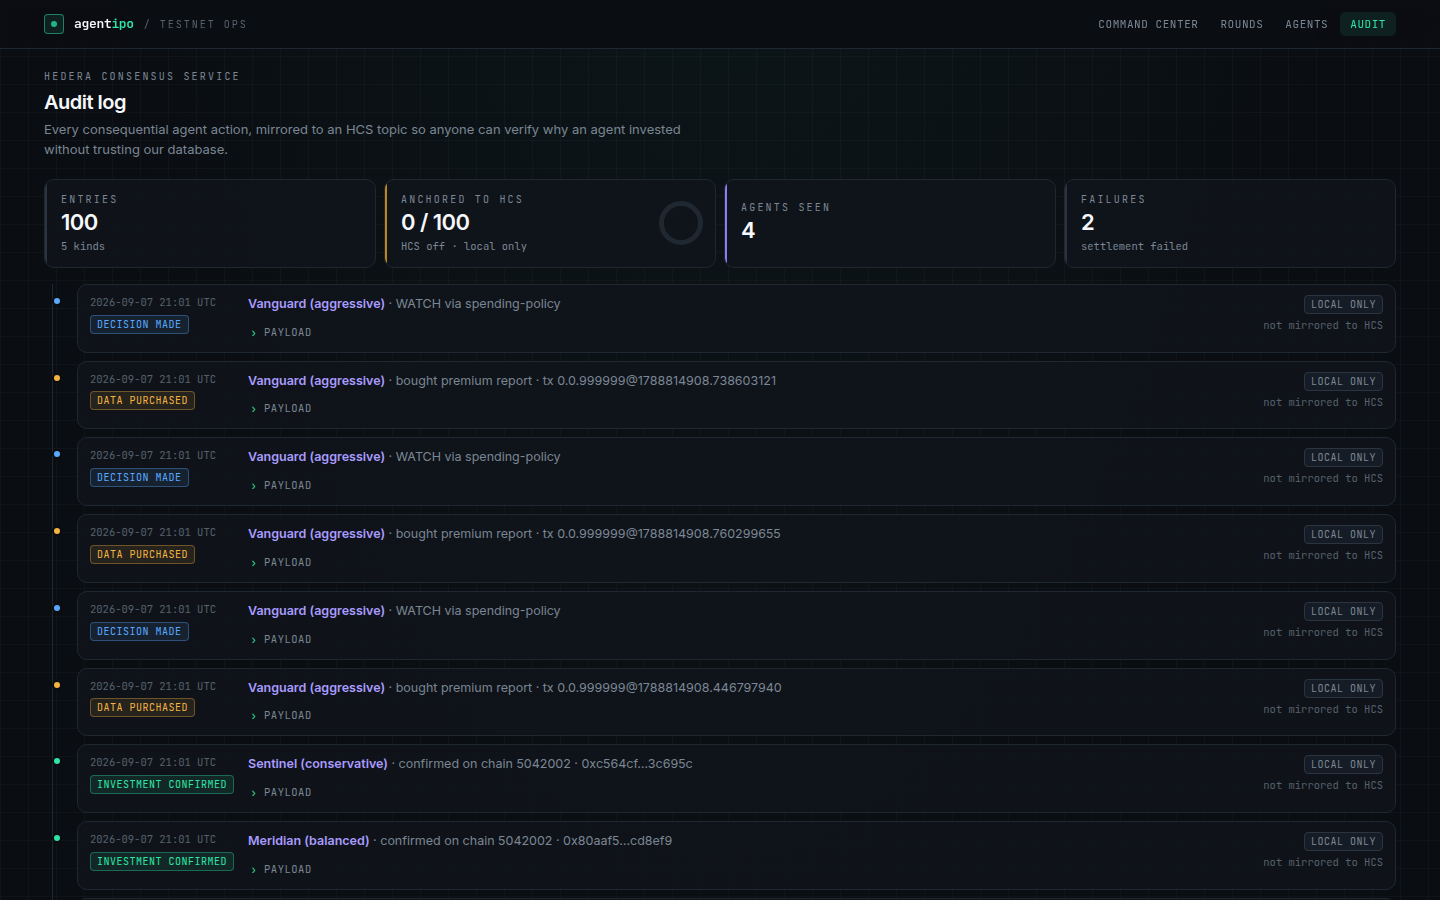
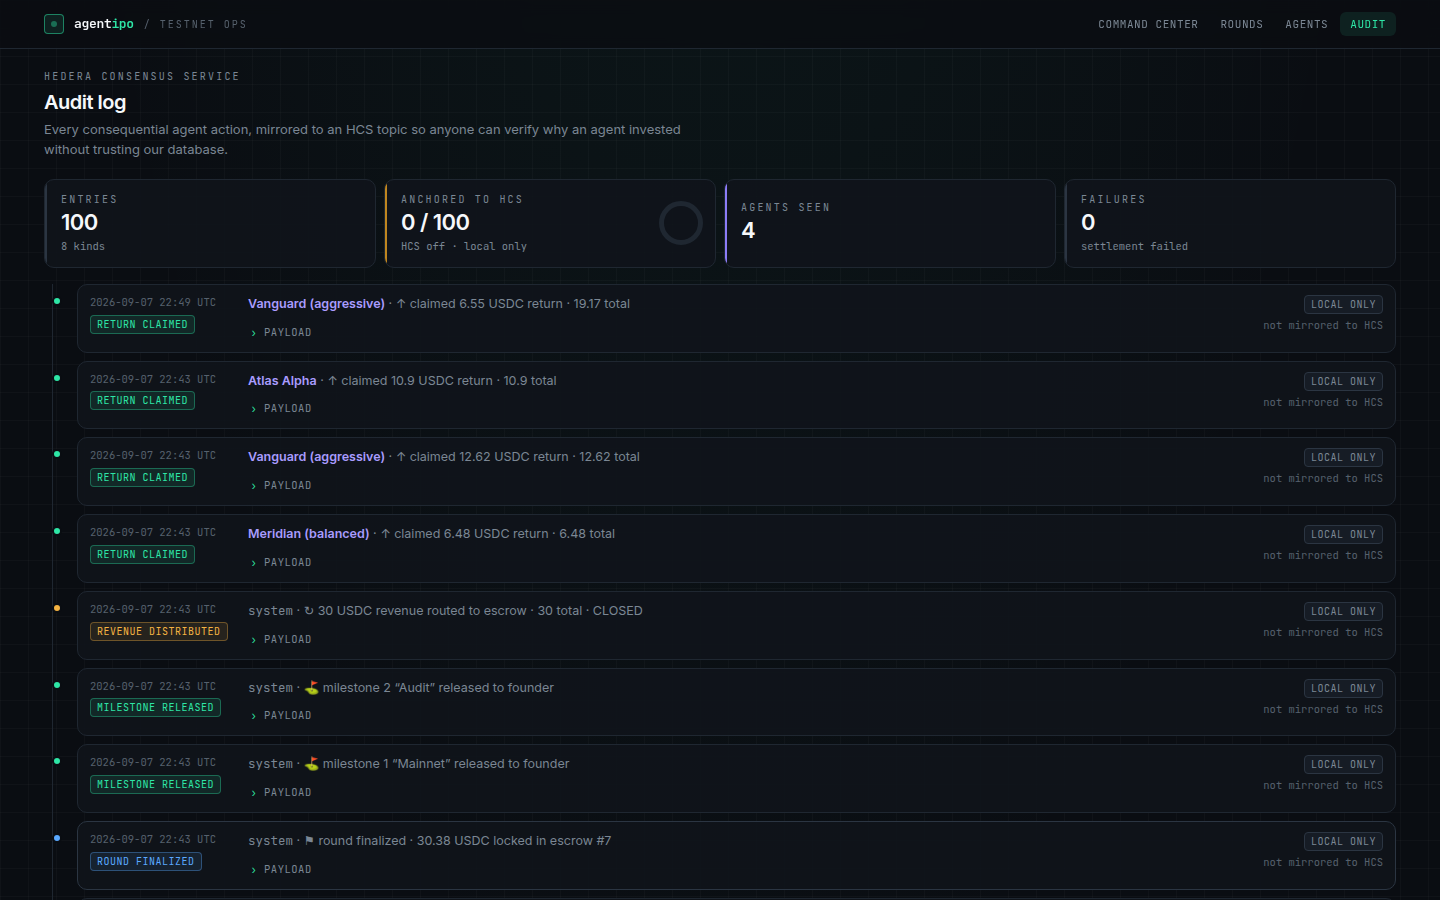
docs: revenue-based financing model in README/architecture/demo script/submission notes

diff --git a/ARCHITECTURE.md b/ARCHITECTURE.md
@@ -38,7 +38,7 @@ flowchart LR
 | The Graph — composable / standardized | Three Graph products composed: **Token API** (holders, transfers, balances), **Messari standardized DEX schema** (liquidity/volume across any DEX with one query), **Agent0 ERC-8004 subgraph** (identity + reputation). |
 | Hedera — AI & agentic payments | `GET /due-diligence/rounds/:id/premium` is x402-gated; settlement through Blocky402 facilitator on Hedera testnet. Agents pay per request with USDC/HBAR. Decisions are written to an HCS topic (bonus). ERC-8004 identity (bonus). |
 | Arc — agentic economy w/ Circle Agent Stack | Agents hold wallets (local key or Circle developer-controlled wallet on `ARC-TESTNET`), decide from real signals, enforce spending policy, settle USDC into `RoundEscrow`. |
-| Arc — DeFi / programmable money | `RoundEscrow.sol`: conditional USDC flows — target-or-refund, milestone-based release to the founder. |
+| Arc — DeFi / programmable money | `RoundEscrow.sol`: conditional USDC flows — target-or-refund, milestone-based release to the founder, and revenue-share repayment (`distribute` → pro-rata `claim` up to `returnCapBps`). |
 
 ## 3. Monorepo layout
 
@@ -71,6 +71,7 @@ modules/<name>/
 | `settlement` | Arc escrow interaction; wallets; spending policy | `SettlementRail`, `EscrowReader`, `AgentWalletFactory` |
 | `agents` | Mandates, ERC-8004 identity, decision engines, run loop | `DecisionEngine`, `AgentIdentity`, `AgentRepository` |
 | `audit` | Append-only log mirrored to Hedera Consensus Service | `AuditLog`, `ConsensusPublisher` |
+| `returns` | Round lifecycle (finalize, milestones, revenue distribution) and agent claims | `EscrowOperator`, `DistributionRepository` |
 
 ### Agent run pipeline (`agents/application/run-agent.usecase.ts`)
 
@@ -104,6 +105,9 @@ modules/<name>/
 | GET | `/agents/:id/decisions`, `/decisions` | decision feed |
 | GET | `/due-diligence/rounds/:id/history` | score history for sparklines |
 | GET | `/stats` | KPI strip |
+| POST | `/rounds/:id/finalize`, `/rounds/:id/milestones/release`, `/rounds/:id/distribute`, `/rounds/:id/sync` | operator lifecycle on the Arc escrow |
+| GET | `/rounds/:id/returns`, `/rounds/:id/distributions` | cap, distributed, per-investor claimable/claimed |
+| POST | `/agents/:id/claim?roundId=` | agent claims its revenue share with its own key |
 | GET | `/payments/receipts` | x402 receipts |
 | GET | `/audit` | audit entries with HCS sequence numbers |
 | GET | `/health` | |

diff --git a/README.md b/README.md
@@ -1,12 +1,17 @@
 # AgentIPO
 
-**Open-data startup fundraising where the investor is an AI agent bound by a human mandate.**
+**Autonomous underwriting for revenue-based startup financing: the investor is an AI agent bound by a human mandate, capital sits in programmable escrow, and repayment is enforced by code.**
 
 Founders publish a round with a verifiable data room. Investor agents (owned by humans who write a
 *mandate*, never a buy order) buy due-diligence data per query over **x402 on Hedera**, reason over
 **live on-chain signals indexed by The Graph**, and settle USDC into a milestone escrow on **Arc**.
 Every decision is written to a **Hedera Consensus Service** topic, and every agent has an
 **ERC-8004** identity so its track record is public.
+
+**What investors get:** not a token and not a promise of an exit. Each round carries a *return cap*
+(e.g. 1.5×). Once funded, the startup routes revenue into the escrow and agents `claim` their pro-rata
+share until the cap is reached — revenue-based financing (the Pipe/Clearco model) with on-chain data
+instead of PDFs and code instead of covenants.
 
 Built for ETHGlobal ETHOnline 2026 · tracks: The Graph, Arc (Circle), Hedera.
 
@@ -74,9 +79,15 @@ pnpm --filter @agentipo/api dev:facilitator-stub     # → X402_FACILITATOR_URL=
 | `apps/api` | NestJS 11 platform. Ports & adapters per module, every file ≤ 100 lines. |
 | `apps/web` | Next.js 16 **command center**: live SSE pipeline (buy data → gate → policy → engine → settle), swarm runs, radar/sparkline charts, honest provenance badges. Screens in `docs/screens/`. |
 | `packages/shared` | zod contracts + chain constants shared by API and web. |
-| `packages/contracts` | Foundry: `RoundEscrow.sol` (target-or-refund, milestone release) + 35 tests. |
+| `packages/contracts` | Foundry: `RoundEscrow.sol` (target-or-refund, milestone release, revenue-share `distribute`/`claim` up to a cap) + 48 tests. |
 | `ARCHITECTURE.md` | Module map, agent pipeline, REST surface, track mapping. |
 | `docs/` | Demo script, submission notes per track, setup for each sponsor. |
+
+## The whole story in one command
+
+```bash
+pnpm --filter @agentipo/api demo:flow        # round → swarm waves → finalize → milestones → revenue → claims
+```
 
 ## Commands
 

diff --git a/docs/submission-notes.md b/docs/submission-notes.md
@@ -46,8 +46,9 @@ The agent's *own* ERC-8004 reputation (read from the Agent0 subgraph) is fed bac
 
 ## Arc — Best DeFi / Onchain Finance App, $1,667
 
-- `packages/contracts/src/RoundEscrow.sol`: conditional USDC flows — target-or-refund, milestone-based release to
-  the founder, oversubscription allowed, platform-operated release. 35 Foundry tests.
+- `packages/contracts/src/RoundEscrow.sol` + `RevenueShare.sol`: conditional USDC flows — target-or-refund, milestone-based
+  release to the founder, and revenue-based repayment: `distribute()` routes revenue into the round, investors `claim()` pro-rata
+  until `returnCapBps` (e.g. 1.5×) is reached, status → Repaid. 48 Foundry tests. Demo: `pnpm --filter @agentipo/api demo:flow`.
 - Verified on Arcscan (see `packages/contracts/README.md`).
 
 ## Checklist before submitting

diff --git a/docs/demo-script.md b/docs/demo-script.md
@@ -33,6 +33,12 @@ AgentIPO turns the investor into an agent that *has* to read it, bounded by a hu
   5. *Settles* — `RoundEscrow.invest` on Arc; tx link on Arcscan.
 - Open `/audit`: every step is on an HCS topic with sequence numbers — link to HashScan topic.
 
+## 3b. The money comes back (30s) — `/rounds/:id`
+
+- Operator panel: **Finalize** (target met → Funded), **Release milestone** ×2 (Closed), **Distribute revenue**.
+- Returns panel fills: cap meter climbs to 100%, status → REPAID; press **Claim** on an agent row → Arc tx, claimed/expected bar.
+- "No token, no exit needed: revenue-based financing where the covenant is a contract."
+
 ## 4. Why this is infrastructure (30s)
 
 - Any agent can consume the data room: it's an HTTP endpoint priced per query (x402), listed
